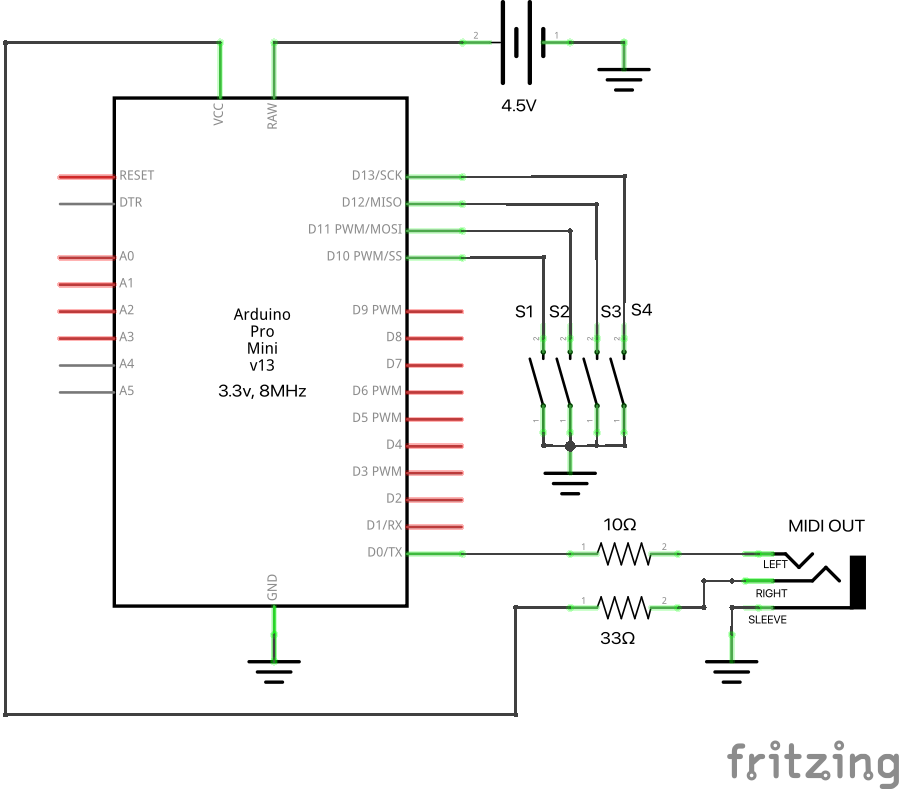
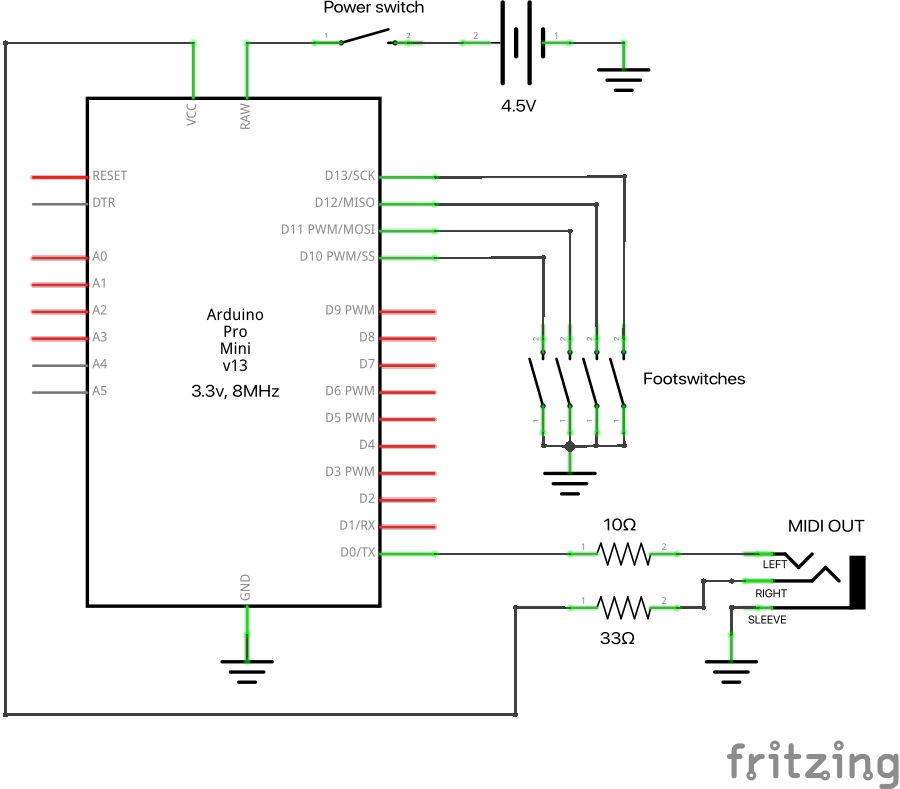
Improved README and labels on schematic

diff --git a/README.md b/README.md
@@ -17,7 +17,7 @@ Hence I wanted to create a footswitch that triggers the looper as soon as it is 
 The circuit is pretty simple:
  * It is based around an **Arduino Pro Mini 3.3V** (8MHz). This is the lower-voltage version of the Pro Mini and contains only a minimal set of on-board equipment, which is useful for conserving power.
  * **Power** comes from a set of 3x1.5V batteries, wired between GND and RAW, via a toggle switch.
- * The **footswitches** are connected between GND and the input/output pins. (I don't think it matters much which of these pins you pick, as long as they match the pins you use in the code, of course. The schematic below shows the use of 4 arbitrary pins, but you can pick others.)
+ * The **footswitches** are momentary (non-latching) push-to-make switches. connected between GND and the input/output pins. (I don't think it matters much which of these pins you pick, as long as they match the pins you use in the code, of course. The schematic below shows the use of 4 arbitrary pins, but you can pick others.)
  * The **MIDI signal** is sent out through a 3.5mm TRS jack socket. The MX5's MIDI ports are also jack sockets (not DIN connectors), so the footswitch can be connected to the MX5 simply through a standard aux cable. Since we are working at 3.3V, we use 10 and 33 ohm resistors. See the schematic below for more details.
 
 <img src="schematic.png" width="400" />
